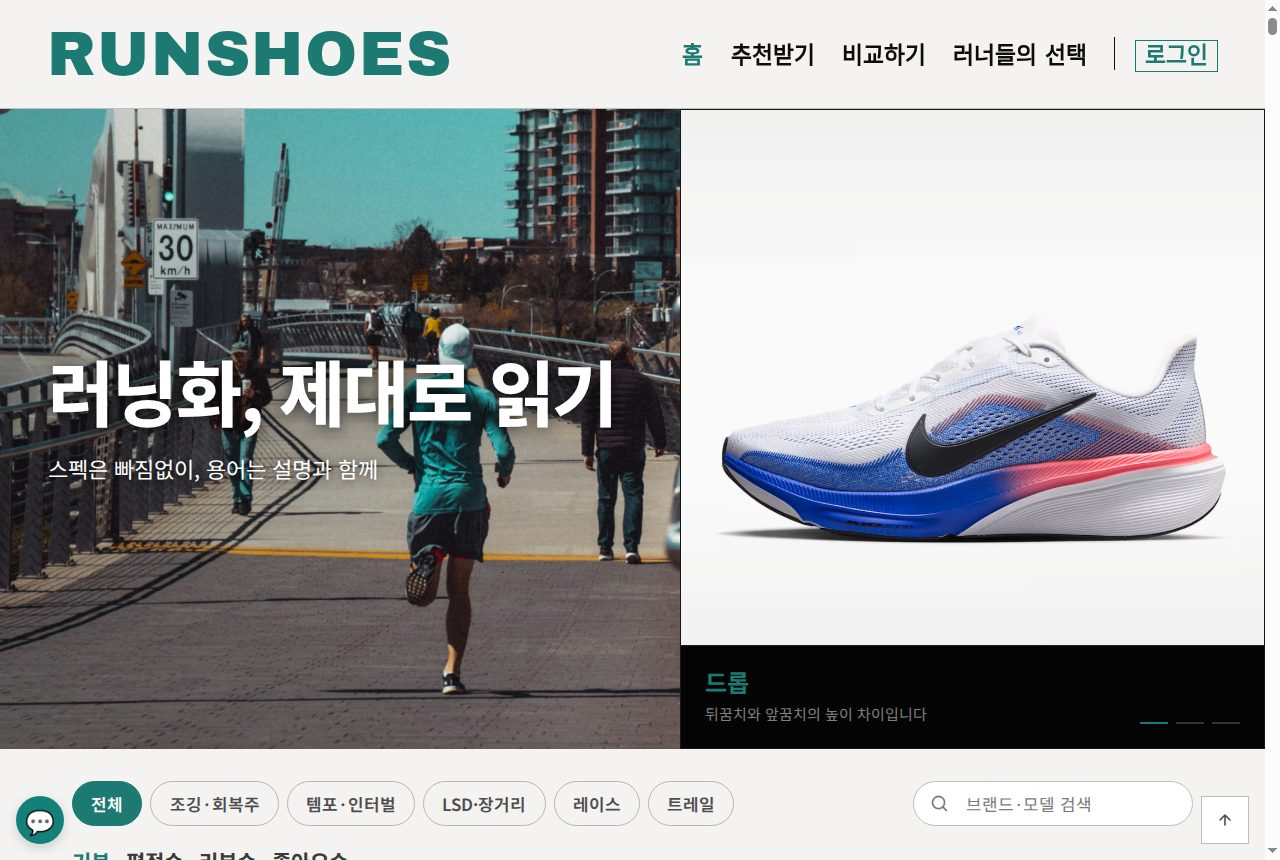
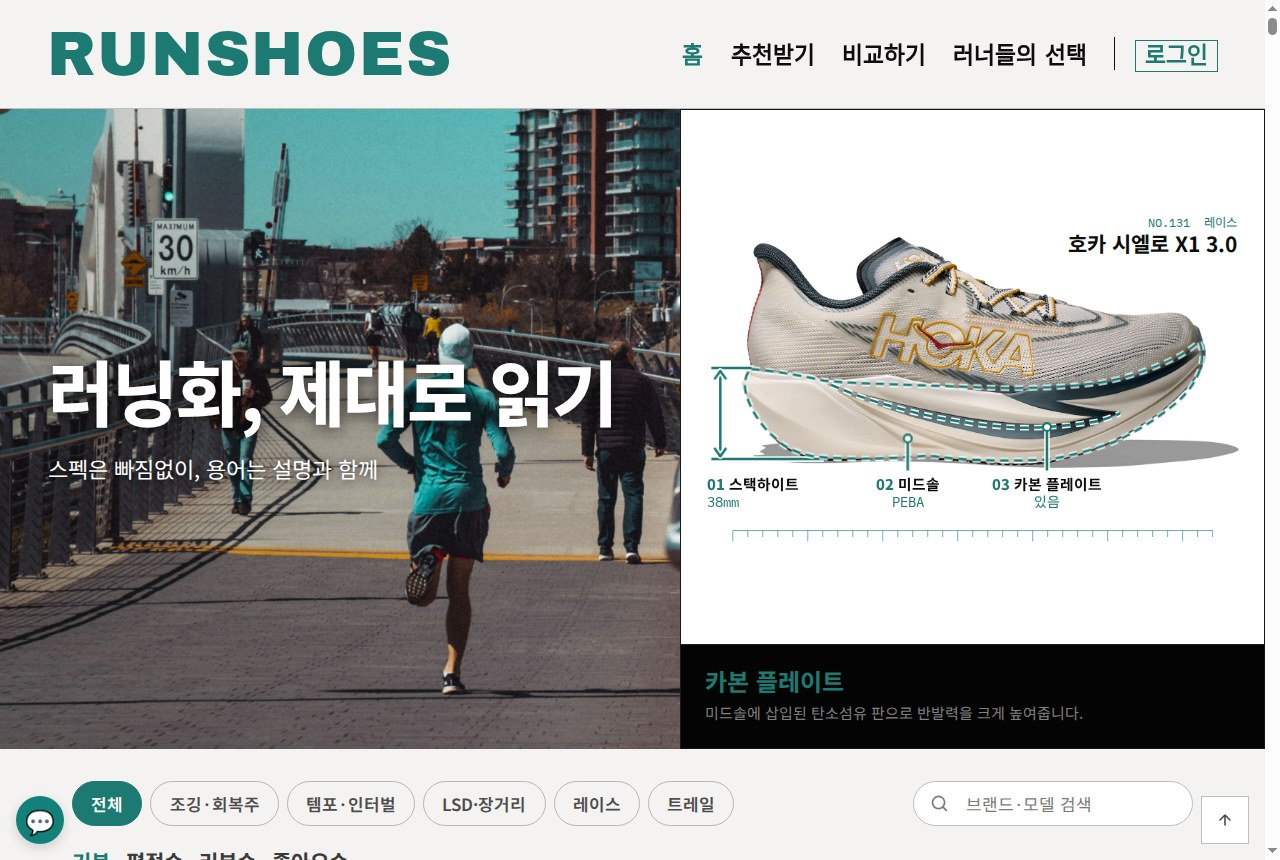
docs: 홈 첫 화면 설명과 사진을 용어 설계도에 맞춤
디자인 편의 홈 첫 화면 설명을 지금 화면대로 적는다. 신발 한 장
위에 용어 셋의 선이 쌓이고 값과 풀이가 한 글자씩 박힌다는 것,
그리고 용어를 셋만 둔 까닭이다.

이 칸이 찍힌 포트폴리오 사진 두 장도 운영 사이트에서 다시 찍었다.
첫 화면 전체 사진과 레이스 목록 사진이다.

Changed region(s): [[0.5625, 0.2721, 0.9688, 0.6349], [0.5312, 0.7558, 0.8438, 0.8465], [0.8125, 0.2419, 0.9688, 0.3023]]

diff --git a/portfolio/00_overview.md b/portfolio/00_overview.md
@@ -8,7 +8,7 @@
 
 **RUNSHOES는 러닝화 310켤레(2026-11-17 운영 공개 API)의 스펙과 리뷰를 한곳에 모은 아카이브 사이트입니다. 어려운 용어에는 바로 풀이가 뜨고, 모르는 값은 짐작으로 채우지 않고 "정보 없음"으로 남깁니다.** [docs:requirements.md:10] [docs:overview.md:6] [docs:requirements.md:48]
 
-![RUNSHOES 첫 화면. 위에는 "러닝화, 제대로 읽기" 머리 그림과 용어 풀이 카드가 돌아가고, 아래에는 용도로 거르는 단추와 검색창이 있습니다](img/00_overview_home.jpg)
+![RUNSHOES 첫 화면. 위에는 "러닝화, 제대로 읽기" 머리 그림과 신발 한 장 위에 용어 선이 그어지는 그림이 있고, 아래에는 용도로 거르는 단추와 검색창이 있습니다](img/00_overview_home.jpg)
 
 ## 무엇을 만들었나
 
